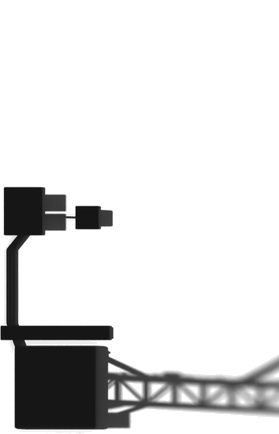
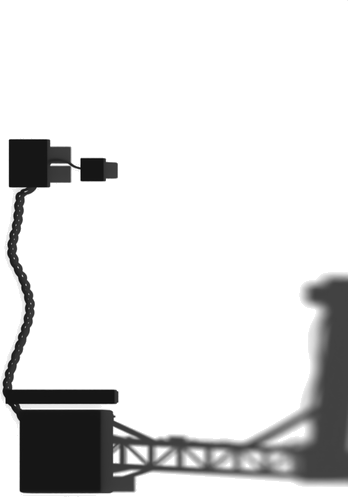
feat(Haltestelle 3D): Verteiler hinter dem Gleis, geflochtene gedeckte Kabel je Richtung anders, ohne Vanilla-Gleiskabel
Marcels Test: Verteiler stand auf dem Gleis, Vanilla-rail_overlay doppelte das Elektrozeug. Kabel als
Bezier-Kurven, Bündel geflochten, Schwünge je Richtung per seed; Farben gedeckt. Bildausschnitt größer,
Ausschnitt je Richtung gespeichert (einzelne Richtungen neu rendern). live_stop: Gleis als Hilfsstreifen.

Changed region(s): [[0.0, 0.2696, 1.0, 1.0]]

diff --git a/tools/grafik/utl_stop_model.py b/tools/grafik/utl_stop_model.py
@@ -1,10 +1,13 @@
 # Modell der UTL-Haltestelle (Blender 5.x). Maße in Factorio-Feldern, an der Vanilla-Haltestelle
 # gemessen: Höhe ≈ 4 Felder, Mast ≈ 0,6 Felder breit, Ausleger ≈ 2 Felder übers Gleis (Westen).
-# Wird von utl_train_stop.py (headless) benutzt und lässt sich in einem offenen Blender neu bauen:
-#   exec(open(".../utl_stop_model.py").read()); build()
+# Benutzt von render_stop.py (headless rendern) und live_stop.py (im offenen Blender ansehen).
 import bpy
 import math
+import random
+
 from mathutils import Vector, Matrix
+
+import rig
 
 COLLECTION = "UTL-Haltestelle"
 
@@ -61,18 +64,21 @@ def _mat(name, color, metallic=0.85, rough=0.5, rust=0.0, emission=None):
     return m
 
 
-def build():
+def build(seed=0, name=COLLECTION):
+    """Baut das Modell in die Sammlung `name`. seed: Zufallswert für die Kabelführung – je Richtung ein
+    anderer, damit die Kabel nicht überall gleich liegen."""
+    rng = random.Random(seed)
     # alte Fassung entfernen
-    old = bpy.data.collections.get(COLLECTION)
+    old = bpy.data.collections.get(name)
     if old:
         for o in list(old.objects):
             bpy.data.objects.remove(o, do_unlink=True)
     else:
-        old = bpy.data.collections.new(COLLECTION)
+        old = bpy.data.collections.new(name)
         bpy.context.scene.collection.children.link(old)
     for o in list(bpy.data.objects):  # Reste der ersten Fassung (ohne Sammlung)
         if o.type == "MESH" and o.users_collection and o.users_collection[0] == bpy.context.scene.collection \
-                and not o.name.startswith(("Boden", "Vanilla")):
+                and not o.name.startswith(("Boden", "Vanilla", "Schattenfänger")):
             bpy.data.objects.remove(o, do_unlink=True)
     col = old
 
@@ -84,8 +90,9 @@ def build():
     ORANGE = _mat("Ocker", (0.2542, 0.1441, 0.0423), 0.2, 0.6, rust=0.35)  # gedeckt statt Signalorange
     LAMP = _mat("Lampe", (0.9, 0.6, 0.1), 0.0, 0.2, emission=(1.0, 0.65, 0.15))  # gelb wie Vanilla
     # Elektrik: farbige Kabelmäntel (rot/grün wie Factorios Signalkabel, gelb für Strom), Meldeleuchten
-    WIRE = [_mat("Kabel rot", (0.32, 0.03, 0.02), 0.1, 0.4), _mat("Kabel grün", (0.03, 0.22, 0.04), 0.1, 0.4),
-            _mat("Kabel gelb", (0.42, 0.3, 0.02), 0.1, 0.4)]
+    # gedeckt statt grell (Marcel): wenig Sättigung, dunkel und matt wie verschmutzte Kabelmäntel
+    WIRE = [_mat("Kabel rot", (0.15, 0.045, 0.035), 0.05, 0.7), _mat("Kabel grün", (0.05, 0.1, 0.05), 0.05, 0.7),
+            _mat("Kabel gelb", (0.2, 0.15, 0.05), 0.05, 0.7)]
     LED_G = _mat("Meldeleuchte grün", (0.1, 0.8, 0.15), 0.0, 0.3, emission=(0.2, 1.0, 0.25))
     LED_R = _mat("Meldeleuchte rot", (0.8, 0.1, 0.05), 0.0, 0.3, emission=(1.0, 0.15, 0.05))
 
@@ -150,6 +157,51 @@ def build():
         o.rotation_quaternion = Vector((0, 0, 1)).rotation_difference(d.normalized())
         bpy.ops.object.shade_smooth()
         return link(o, material)
+
+    def cable(name, points, r, material):
+        """Geschwungenes Kabel: glatte Kurve durch die Punkte (Bezier mit automatischen Griffen), als Mesh."""
+        cu = bpy.data.curves.new(name, "CURVE")
+        cu.dimensions = "3D"
+        cu.resolution_u = 10
+        cu.bevel_depth = r
+        cu.bevel_resolution = 2
+        cu.use_fill_caps = True
+        sp = cu.splines.new("BEZIER")
+        sp.bezier_points.add(len(points) - 1)
+        for bp, p in zip(sp.bezier_points, points):
+            bp.co = Vector(p)
+            bp.handle_left_type = bp.handle_right_type = "AUTO"
+        tmp = bpy.data.objects.new(name, cu)
+        bpy.context.scene.collection.objects.link(tmp)
+        depsgraph = bpy.context.evaluated_depsgraph_get()
+        me = bpy.data.meshes.new_from_object(tmp.evaluated_get(depsgraph))
+        bpy.data.objects.remove(tmp, do_unlink=True)
+        bpy.data.curves.remove(cu)
+        o = bpy.data.objects.new(name, me)
+        bpy.context.scene.collection.objects.link(o)
+        for poly in me.polygons:
+            poly.use_smooth = True
+        return link(o, material)
+
+    def braid(name, path, r, materials, spread=0.032, turns=2.2):
+        """Mehrere Adern umeinander gewunden (geflochten) entlang einer geschwungenen Bahn; turns: Windungen je
+        Feld. Die Adern bleiben über dem Boden."""
+        pts = rig.smooth(path, 10)
+        dist = [0.0]
+        for a, b in zip(pts, pts[1:]):
+            dist.append(dist[-1] + (b - a).length)
+        for k, material in enumerate(materials):
+            out = []
+            for i, p in enumerate(pts):
+                t = (pts[min(i + 1, len(pts) - 1)] - pts[max(i - 1, 0)]).normalized()
+                n = t.cross(Vector((0, 0, 1)))
+                n = n.normalized() if n.length > 1e-4 else Vector((1, 0, 0))
+                up = n.cross(t)
+                th = 2 * math.pi * (k / len(materials) + dist[i] * turns)
+                q = p + n * (math.cos(th) * spread) + up * (math.sin(th) * spread)
+                q.z = max(q.z, r)
+                out.append(q)
+            cable(f"{name}{k}", out, r, material)
 
     def cyl(name, r, h, loc, material, rot=(0, 0, 0), verts=24):
         bpy.ops.mesh.primitive_cylinder_add(radius=r, depth=h, location=loc, rotation=rot, vertices=verts)
@@ -266,28 +318,35 @@ def build():
     box("Kastentür", (0.32, 0.02, 0.44), (MX - 0.05, MY - 0.61, 0.455), DARK, bevel=0.008)
 
     # ---- Kabel vom Kasten unter dem Gleis hindurch nach Westen (wie Vanilla) ----
-    for k, dy in enumerate((-0.06, 0.0, 0.06)):
-        pts = [Vector((MX - 0.25, MY - 0.45 + dy, 0.3)), Vector((MX - 0.5, MY - 0.55 + dy, 0.06)),
-               Vector((MX - 1.0, MY - 0.7 + dy, 0.03)), Vector((-1.6, MY - 0.7 + dy, 0.03)),
-               Vector((-2.0, MY - 0.4 + dy, 0.05))]
-        for i in range(len(pts) - 1):
-            bar(f"Kabel{k}_{i}", pts[i], pts[i + 1], 0.022, WIRE[k])
+    # Gleismitte liegt 2 Felder westlich der Haltestelle, Schotter bis ≈ −3,2: Verteiler erst dahinter
+    VX = -3.95
+    # verlegt wie echt: aus dem Kasten im Bogen nach unten, dann als geflochtenes Bündel in weiten Schwüngen
+    # über den Boden; die Schwünge kommen aus seed, je Richtung also anders
+    swing = [rng.uniform(-0.22, 0.22) for _ in range(6)]
+    braid("Kabel", [(MX - 0.25, MY - 0.45, 0.3), (MX - 0.38, MY - 0.58, 0.12), (MX - 0.62, MY - 0.7, 0.055),
+                    (MX - 1.05, MY - 0.72 + swing[0], 0.055), (-1.55, MY - 0.7 + swing[1], 0.055),
+                    (-2.05, MY - 0.72 + swing[2], 0.055), (-2.55, MY - 0.7 + swing[3], 0.055),
+                    (-3.05, MY - 0.72 + swing[4], 0.055), (-3.45, MY - 0.66 + swing[5] * 0.6, 0.055),
+                    (VX + 0.42, MY - 0.55, 0.06), (VX + 0.2, MY - 0.42, 0.08)], 0.02, WIRE)
     # Kabelkanal entlang des Gleises: durchgehende Betonrinne, eingelassen, mit Deckeln obendrauf
     box("Kabelrinne", (0.22, 1.7, 0.05), (MX - 0.85, MY, 0.015), CONCRETE, bevel=0.01)
     for k in range(5):
         box(f"Kanaldeckel{k}", (0.18, 0.31, 0.02), (MX - 0.85, MY + 0.7 - k * 0.35, 0.045), CONCRETE, bevel=0.008)
     # Verteilerkästen auf der anderen Gleisseite: auf einer gemeinsamen Betonplatte, mit Füßen und Dach
-    box("Verteilerplatte", (0.75, 0.6, 0.06), (-2.2, MY - 0.5, 0.02), CONCRETE, bevel=0.015)
-    for k, x in enumerate((-2.05, -2.35)):
+    box("Verteilerplatte", (0.75, 0.6, 0.06), (VX, MY - 0.5, 0.02), CONCRETE, bevel=0.015)
+    for k, x in enumerate((VX + 0.15, VX - 0.15)):
         box(f"Verteilerfuß{k}", (0.24, 0.42, 0.05), (x, MY - 0.5, 0.075), DARK, bevel=0.006)
         box(f"Verteiler{k}", (0.22, 0.4, 0.28), (x, MY - 0.5, 0.24), STEEL, bevel=0.025)
         box(f"Verteilerdach{k}", (0.26, 0.44, 0.03), (x, MY - 0.5, 0.395), DARK, bevel=0.008)
-    box("Kleinverteilerplatte", (0.36, 0.36, 0.05), (-2.1, MY + 0.5, 0.015), CONCRETE, bevel=0.012)
-    box("Kleinverteiler", (0.25, 0.25, 0.22), (-2.1, MY + 0.5, 0.15), DARK, bevel=0.02)
-    for k, x in enumerate((-2.05, -2.35)):
+    box("Kleinverteilerplatte", (0.36, 0.36, 0.05), (VX + 0.1, MY + 0.5, 0.015), CONCRETE, bevel=0.012)
+    box("Kleinverteiler", (0.25, 0.25, 0.22), (VX + 0.1, MY + 0.5, 0.15), DARK, bevel=0.02)
+    for k, x in enumerate((VX + 0.15, VX - 0.15)):
         cyl(f"Verteilerleuchte{k}", 0.02, 0.012, (x + 0.05, MY - 0.705, 0.32), (LED_G, LED_R)[k],
             rot=(math.pi / 2, 0, 0), verts=10)
-    bar("Kabel Kleinverteiler", (-2.12, MY - 0.29, 0.06), (-2.1, MY + 0.38, 0.06), 0.016, WIRE[1])
+    bend = rng.uniform(-0.2, 0.2)
+    cable("Kabel Kleinverteiler", [(VX + 0.08, MY - 0.29, 0.07), (VX + 0.02 - bend, MY - 0.14, 0.025),
+                                   (VX - 0.1 + bend, MY + 0.05, 0.025), (VX + 0.12 - bend, MY + 0.22, 0.025),
+                                   (VX + 0.1, MY + 0.38, 0.07)], 0.016, WIRE[1])
 
     # ---- Steuerschrank an der Ostseite des Sockels: steuert Halt und Signal, darum mit Meldeleuchten ----
     sx, sy = MX + 0.47, MY + 0.02
@@ -301,17 +360,26 @@ def build():
             verts=10)
     for k in range(3):  # Kabelbündel Steuerschrank → Schaltkasten, flach über den Sockel
         dz = 0.2 + k * 0.025
-        bar(f"Steuerkabel{k}", (sx - 0.09, sy - 0.12, dz), (MX + 0.16, MY - 0.4 + k * 0.03, dz), 0.012, WIRE[k])
+        cable(f"Steuerkabel{k}", [(sx - 0.09, sy - 0.12, dz + 0.05), (sx - 0.12, sy - 0.2, 0.2),
+                                  (MX + 0.28, MY - 0.33 + k * 0.03, 0.195), (MX + 0.16, MY - 0.4 + k * 0.03, dz)],
+              0.012, WIRE[k])
 
     # ---- Kabel am Mast hoch und unter dem Ausleger zu den Lampen, mit Schellen ----
     cx, cy = MX - W - 0.05, MY - W - 0.05
-    route = [Vector((MX - 0.2, MY - 0.42, 0.77)), Vector((cx, cy, 0.95)), Vector((cx, cy, H + 0.1)),
-             on_arm(-length / 2 + 0.1, -0.1, -0.2), on_arm(length / 2 - 0.25, -0.1, -0.2),
+    # Am Mast straff an den Schellen, unter dem Ausleger zwischen den Haltern durchhängend, am Ende im Bogen
+    # in den Lampenträger
+    def sag(a, b, depth):
+        return (a + b) / 2 - Vector((0, 0, depth))
+    a0, a1 = on_arm(-length / 2 + 0.1, -0.1, -0.2), on_arm(0, -0.1, -0.2)
+    a2 = on_arm(length / 2 - 0.25, -0.1, -0.2)
+    route = [Vector((MX - 0.2, MY - 0.42, 0.77)), Vector((MX - 0.3, MY - 0.38, 0.9)), Vector((cx, cy, 1.1)),
+             Vector((cx, cy, 2.5)), Vector((cx, cy, H - 0.1)), Vector((cx - 0.08, cy, H + 0.05)), a0,
+             sag(a0, a1, 0.09), a1, sag(a1, a2, 0.09), a2, Vector((lx + 0.2, MY - 0.08, lz + 0.05)),
              Vector((lx + 0.1, MY - 0.06, lz + 0.17))]
     for k, (dx, w) in enumerate(((-0.02, WIRE[0]), (0.02, WIRE[2]))):
-        for i in range(len(route) - 1):
-            off = Vector((dx, 0, 0))
-            bar(f"Lampenkabel{k}_{i}", route[i] + off, route[i + 1] + off, 0.012, w)
+        cable(f"Lampenkabel{k}", [p + Vector((dx, 0, 0)) for p in route], 0.012, w)
+    for k, p in enumerate((a0, a1, a2)):  # Kabelhalter unter dem Ausleger
+        box(f"Kabelhalter{k}", (0.05, 0.05, 0.06), p + Vector((0, 0, 0.03)), DARK, bevel=0.005)
     for k in range(6):
         box(f"Schelle{k}", (0.09, 0.05, 0.03), (cx, cy, 1.2 + k * 0.45), DARK, bevel=0.005)
     # Abzweigkasten auf halber Masthöhe, das Lampenkabel läuft hindurch

diff --git a/tools/grafik/live_stop.py b/tools/grafik/live_stop.py
@@ -17,13 +17,54 @@ import utl_stop_model  # noqa: E402
 
 
 def rebuild():
+    importlib.reload(rig)
     importlib.reload(utl_stop_model)
     col = utl_stop_model.build()
     root = bpy.data.objects.get("Drehpunkt")
     for o in col.objects:
         if o.parent is None:
             o.parent = root
+    for i in range(1, 4):  # Kopien der anderen Richtungen (mit eigenem seed) mit neu bauen, falls sichtbar
+        name = f"{utl_stop_model.COLLECTION} {rig.DIRECTIONS[i]}"
+        if bpy.data.collections.get(name):
+            _direction_copy(i, name)
     print("[LIVE] Modell neu gebaut:", len(col.objects), "Teile")
+    return col
+
+
+def _direction_copy(i, name):
+    """Modell mit seed i in eigene Sammlung bauen, die nur als Kopie (Instanz) angezeigt wird."""
+    col = utl_stop_model.build(seed=i, name=name)
+    for parent in (bpy.context.scene.collection,):
+        if col.name in parent.children:
+            parent.children.unlink(col)
+    return col
+
+
+def rail_guide():
+    """Gleis als Hilfsstreifen (nur in der Ansicht, nicht im Render): Mitte 2 Felder westlich, 2 Felder breit,
+    dazu dunkler Schotter bis ±1,2 Felder."""
+    col = bpy.data.collections.get("Gleis (Vorschau)") or bpy.data.collections.new("Gleis (Vorschau)")
+    if not col.users:
+        bpy.context.scene.collection.children.link(col)
+    for o in list(col.objects):
+        bpy.data.objects.remove(o, do_unlink=True)
+    for name, width, z, color in (("Schotter", 2.4, 0.004, (0.2, 0.18, 0.16, 1)), ("Schiene West", 0.08, 0.02, (0.6, 0.6, 0.62, 1)),
+                                  ("Schiene Ost", 0.08, 0.02, (0.6, 0.6, 0.62, 1))):
+        x = {"Schiene West": -2.72, "Schiene Ost": -1.28}.get(name, -2.0)
+        bpy.ops.mesh.primitive_plane_add(size=1, location=(x, 0, z))
+        o = bpy.context.object
+        o.name = name
+        o.scale = (width, 9, 1)
+        m = bpy.data.materials.new(name)
+        m.diffuse_color = color
+        m.use_nodes = True
+        next(n for n in m.node_tree.nodes if n.type == "BSDF_PRINCIPLED").inputs["Base Color"].default_value = color
+        o.data.materials.append(m)
+        for c in o.users_collection:
+            c.objects.unlink(o)
+        col.objects.link(o)
+        o.hide_render = True
     return col
 
 
@@ -39,23 +80,26 @@ def view():
     return None
 
 
-def overview(step=7.0):
+def overview(step=10.0):
     """Alle vier Richtungen nebeneinander (Nord, Ost, Süd, West) als verknüpfte Kopien – ändern sich beim
     Neubau mit. Eigene Kamera „Übersicht“ nur für die Ansicht; gerendert wird weiter über „Kamera“."""
     import math
-    col = bpy.data.collections[utl_stop_model.COLLECTION]
-    for i in range(1, 4):
-        name = f"Richtung {rig.DIRECTIONS[i]}"
-        o = bpy.data.objects.get(name) or bpy.data.objects.new(name, None)
-        if not o.users_collection:
-            bpy.context.scene.collection.objects.link(o)
-        o.instance_type = "COLLECTION"
-        o.instance_collection = col
-        o.location = (i * step, 0, 0)
-        o.rotation_euler = (0, 0, -i * math.pi / 2)
+    guide = rail_guide()
+    for label in ("Richtung", "Gleis"):
+        for i in range(1, 4):
+            name = f"{label} {rig.DIRECTIONS[i]}"
+            col = guide if label == "Gleis" else _direction_copy(i, f"{utl_stop_model.COLLECTION} {rig.DIRECTIONS[i]}")
+            o = bpy.data.objects.get(name) or bpy.data.objects.new(name, None)
+            if not o.users_collection:
+                bpy.context.scene.collection.objects.link(o)
+            o.instance_type = "COLLECTION"
+            o.instance_collection = col
+            o.location = (i * step, 0, 0)
+            o.rotation_euler = (0, 0, -i * math.pi / 2)
+            o.hide_render = True
     catcher = bpy.data.objects.get("Schattenfänger")
     if catcher:
-        catcher.scale = (3, 1, 1)
+        catcher.scale = (4, 1, 1)
         catcher.location = (1.5 * step, 0, 0)
     cam = bpy.data.objects.get("Übersicht")
     if not cam:
@@ -78,7 +122,7 @@ def overview(step=7.0):
 
 rig.reset(live=True)
 rig.lights()
-rig.camera(8, 8, shift=1.5)
+rig.camera(10, 12, shift=0.8)
 col = utl_stop_model.build()
 rig.shadow_catcher()
 rig.pivot(list(col.objects))

diff --git a/tools/grafik/rig.py b/tools/grafik/rig.py
@@ -156,9 +156,10 @@ def render(out_dir, root, meshes, catcher, samples=96, directions=DIRECTIONS, pa
     os.makedirs(out_dir, exist_ok=True)
     scene = bpy.context.scene
     w, h, shift = scene["framing"]
-    with open(os.path.join(out_dir, "framing.json"), "w") as f:
-        json.dump({"width": w, "height": h, "shift": shift, "supersample": SUPERSAMPLE,
-                   "elevation": math.degrees(ELEVATION)}, f)
+    framing = {"width": w, "height": h, "shift": shift, "supersample": SUPERSAMPLE, "elevation": math.degrees(ELEVATION)}
+    for d in directions:  # je Richtung, damit man einzelne Richtungen neu rendern kann
+        with open(os.path.join(out_dir, f"framing_{d}.json"), "w") as f:
+            json.dump(framing, f)
     white, hold = _pass_materials()
     original = {o.name: list(o.data.materials) for o in meshes}
     for d in directions:
@@ -185,3 +186,17 @@ def render(out_dir, root, meshes, catcher, samples=96, directions=DIRECTIONS, pa
         for i, m in enumerate(original[o.name]):
             o.data.materials[i] = m
         o.visible_camera = True
+
+
+def smooth(points, steps=10):
+    """Catmull-Rom-Kurve durch die Punkte, `steps` Zwischenpunkte je Abschnitt."""
+    pts = [Vector(p) for p in points]
+    out = []
+    for i in range(len(pts) - 1):
+        p0, p1, p2, p3 = pts[max(i - 1, 0)], pts[i], pts[i + 1], pts[min(i + 2, len(pts) - 1)]
+        for k in range(steps):
+            t = k / steps
+            out.append(0.5 * (2 * p1 + (p2 - p0) * t + (2 * p0 - 5 * p1 + 4 * p2 - p3) * t * t
+                              + (3 * p1 - p0 - 3 * p2 + p3) * t ** 3))
+    out.append(pts[-1])
+    return out

diff --git a/tools/grafik/render_stop.py b/tools/grafik/render_stop.py
@@ -19,13 +19,18 @@ passes = (a[a.index("--durchgang") + 1],) if "--durchgang" in a else rig.PASSES
 
 rig.reset()
 rig.lights()
-# Bildausschnitt großzügig (Modell reicht ≈ 2,5 Felder nach Westen und ≈ 4 Felder hoch); sprites.py schneidet zu
-rig.camera(8, 8, shift=1.5)
-col = utl_stop_model.build()  # räumt lose Meshes weg – den Schattenfänger daher erst danach anlegen
+# Bildausschnitt großzügig: Verteiler ≈ 4,4 Felder neben der Mitte (gedreht auch nach Süden, also unten im Bild),
+# Ausleger gedreht bis ≈ 5,6 Felder hoch im Bild; sprites.py schneidet zu
+rig.camera(10, 12, shift=0.8)
 catcher = rig.shadow_catcher()
-meshes = [o for o in col.objects if o.type == "MESH"]
-root = rig.pivot(list(col.objects))
-print("[STOP]", len(meshes), "Teile, Richtungen:", ", ".join(directions))
-if "--ohne-render" in a:
-    sys.exit(0)
-rig.render(out, root, meshes, catcher, samples=samples, directions=directions, passes=passes)
+# Je Richtung neu bauen, mit eigenem seed: die Kabel liegen dann in jeder Richtung etwas anders
+for d in directions:
+    old = bpy.data.objects.get("Drehpunkt")
+    if old:
+        bpy.data.objects.remove(old, do_unlink=True)
+    col = utl_stop_model.build(seed=rig.DIRECTIONS.index(d))
+    meshes = [o for o in col.objects if o.type == "MESH"]
+    root = rig.pivot(list(col.objects))
+    print("[STOP]", d, len(meshes), "Teile")
+    if "--ohne-render" not in a:
+        rig.render(out, root, meshes, catcher, samples=samples, directions=(d,), passes=passes)

diff --git a/tools/grafik/sprites.py b/tools/grafik/sprites.py
@@ -81,18 +81,16 @@ def write_layers(out_dir, name, d, layers, origin, lua):
 
 
 def main(render_dir, out_dir, name, tint):
-    with open(os.path.join(render_dir, "framing.json")) as f:
-        framing = json.load(f)
     os.makedirs(out_dir, exist_ok=True)
-    # Ursprung (Boden-Mitte des Modells) im verkleinerten Bild
-    ox = framing["width"] * TILE_PX / 2
-    oy = (framing["height"] / 2 + framing["shift"]) * TILE_PX
-    origin = (ox, oy)
     bottom, top = [], []
     previews = []
     for d in DIRECTIONS:
         if not os.path.exists(os.path.join(render_dir, f"color_{d}.png")):
             continue
+        with open(os.path.join(render_dir, f"framing_{d}.json")) as f:
+            framing = json.load(f)
+        # Ursprung (Boden-Mitte des Modells) im verkleinerten Bild
+        origin = (framing["width"] * TILE_PX / 2, (framing["height"] / 2 + framing["shift"]) * TILE_PX)
         ims = {k: load(render_dir, k, d, framing) for k in ("color", "mask", "shadow")}
         ims["mask"] = tint_mask(ims["color"], ims["mask"])
         bottom.append(f"    {d} = {{ layers = {{")
